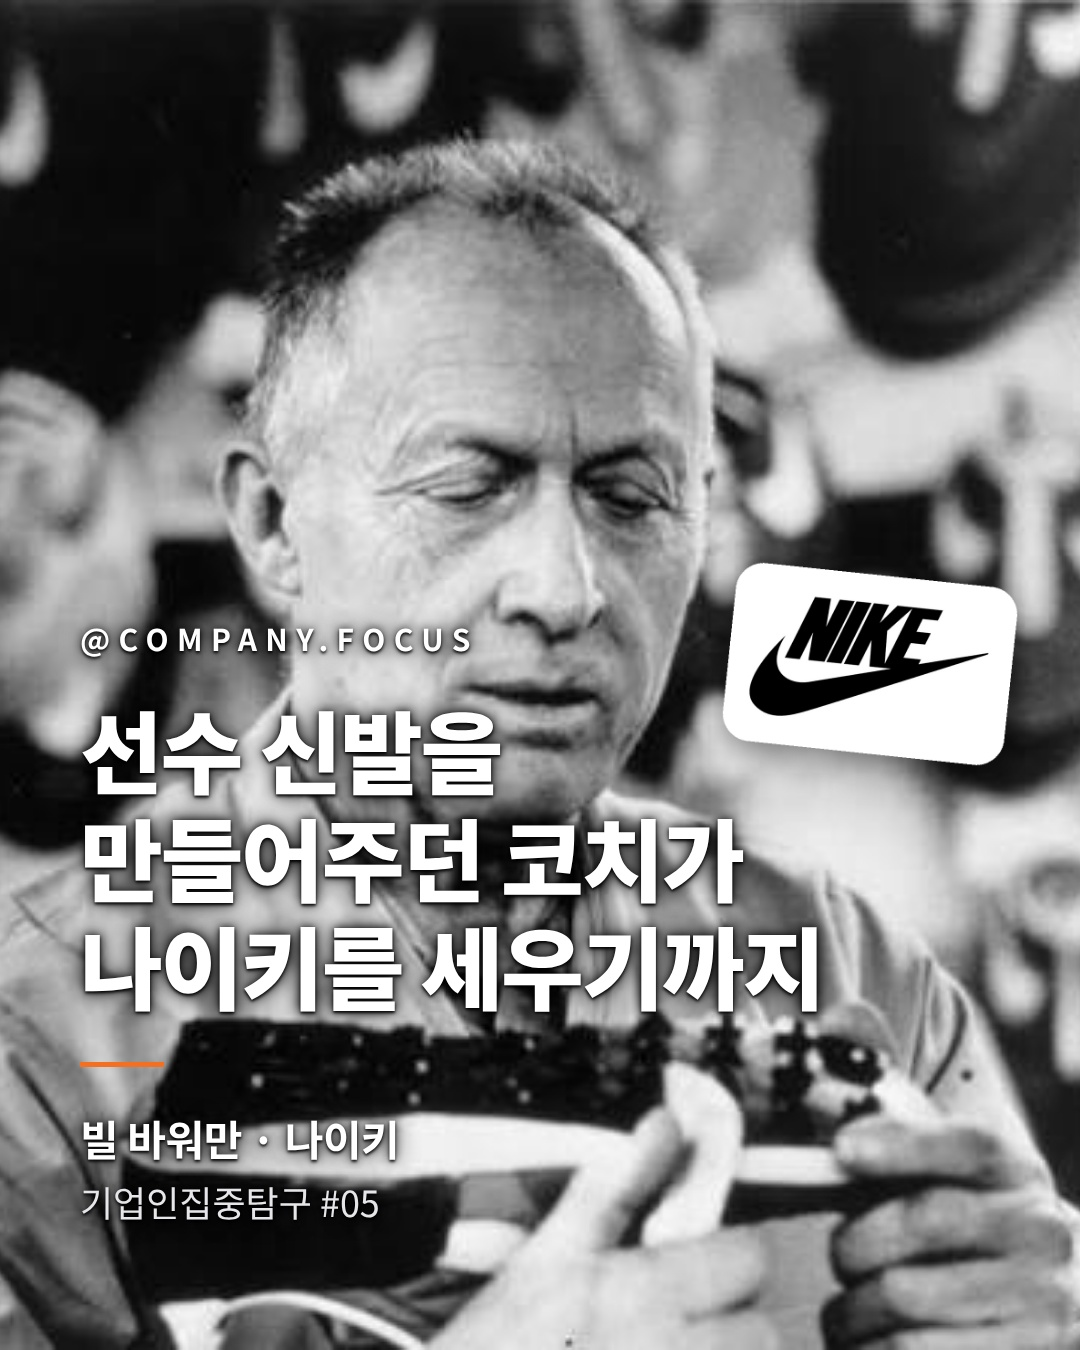
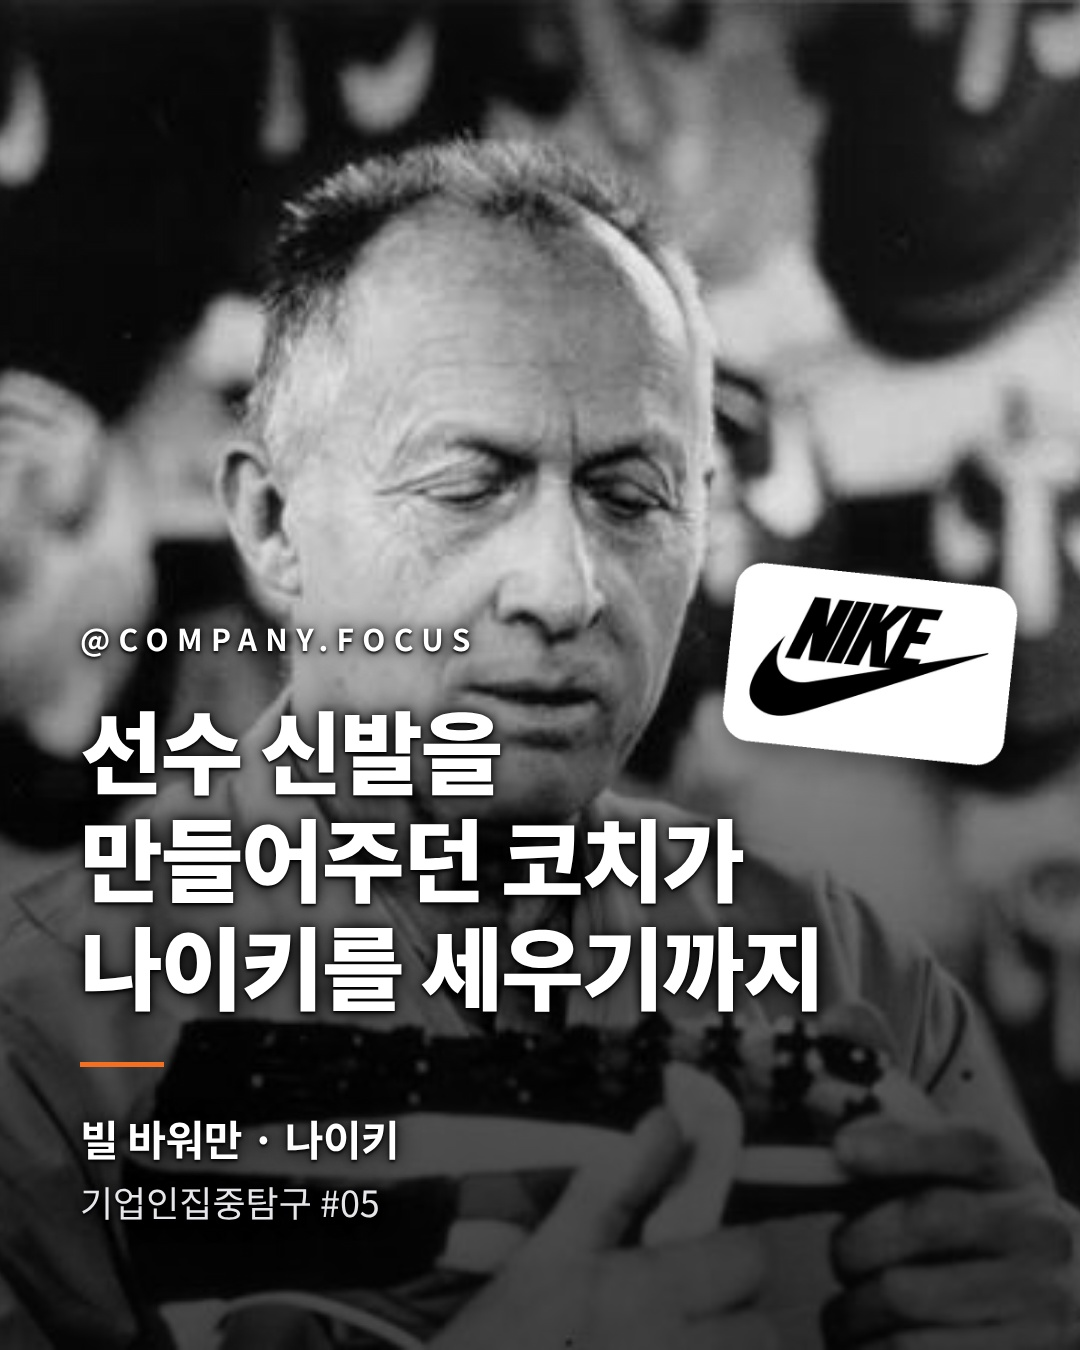
그라데이션을 #02 수준의 옅은 단계로 되돌림(사진 가리는 진한 검정은 금지), #05 재렌더
Claude-Session: https://claude.ai/code/session_0174UmVuwJmyLhAWFRzq7SfG

diff --git a/render.py b/render.py
@@ -20,12 +20,13 @@ html,body{width:1080px;height:1350px;background:#000;color:#fff;
  display:flex;align-items:center;justify-content:center}
 .ph span{position:absolute;top:250px;font-size:30px;letter-spacing:.3em;color:#3a3a42;font-weight:700;
  border:3px dashed #2c2c33;padding:22px 40px;border-radius:14px}
-/* 사용자 규칙: 글자 있는 곳에 검정 그라데이션을 깔지 않음(사진을 가리지 않게). 가독성은 글자 그림자로만 */
+/* 사용자 규칙(11/8): 사진을 가리는 진한 검정은 금지. #02 마이크로소프트 수준의 옅은 그라데이션 + 글자 그림자만 */
 .shade.on~.txt h1,.shade.on~.txt p,.shade.on~.txt .pt,.shade.on~.txt .q,.shade.on~.txt .st,.shade.on~.txt .who,.shade.on~.txt .handle,.shade.on~.txt .c,.shade.on~.txt .u{text-shadow:0 0 22px rgba(0,0,0,.95),0 0 8px rgba(0,0,0,.85),0 2px 3px rgba(0,0,0,.9)}
 .shade.on~.idx{text-shadow:0 0 12px rgba(0,0,0,.9),0 1px 3px rgba(0,0,0,.9)}
 .shade{position:absolute;inset:0;
  background:linear-gradient(180deg,rgba(0,0,0,.45) 0%,rgba(0,0,0,0) 16%,rgba(0,0,0,0) 38%,rgba(0,0,0,.82) 62%,#000 82%)}
-.shade.on{background:none}
+.shade.on{background:linear-gradient(180deg,rgba(0,0,0,.4) 0%,rgba(0,0,0,.05) 14%,rgba(0,0,0,.08) 42%,rgba(0,0,0,.5) 62%,rgba(0,0,0,.68) 82%,rgba(0,0,0,.72) 100%)}
+.shade.on.tall{background:linear-gradient(180deg,rgba(0,0,0,.4) 0%,rgba(0,0,0,.1) 12%,rgba(0,0,0,.45) 34%,rgba(0,0,0,.62) 56%,rgba(0,0,0,.72) 100%)}
 .idx{position:absolute;top:96px;left:80px;font-size:32px;font-weight:700;letter-spacing:.12em;color:#fff}
 .idx:after{content:"";display:block;width:84px;height:5px;background:var(--a);margin-top:22px}
 .pg{position:absolute;top:84px;right:72px;font-size:32px;font-weight:500;color:#fff;
